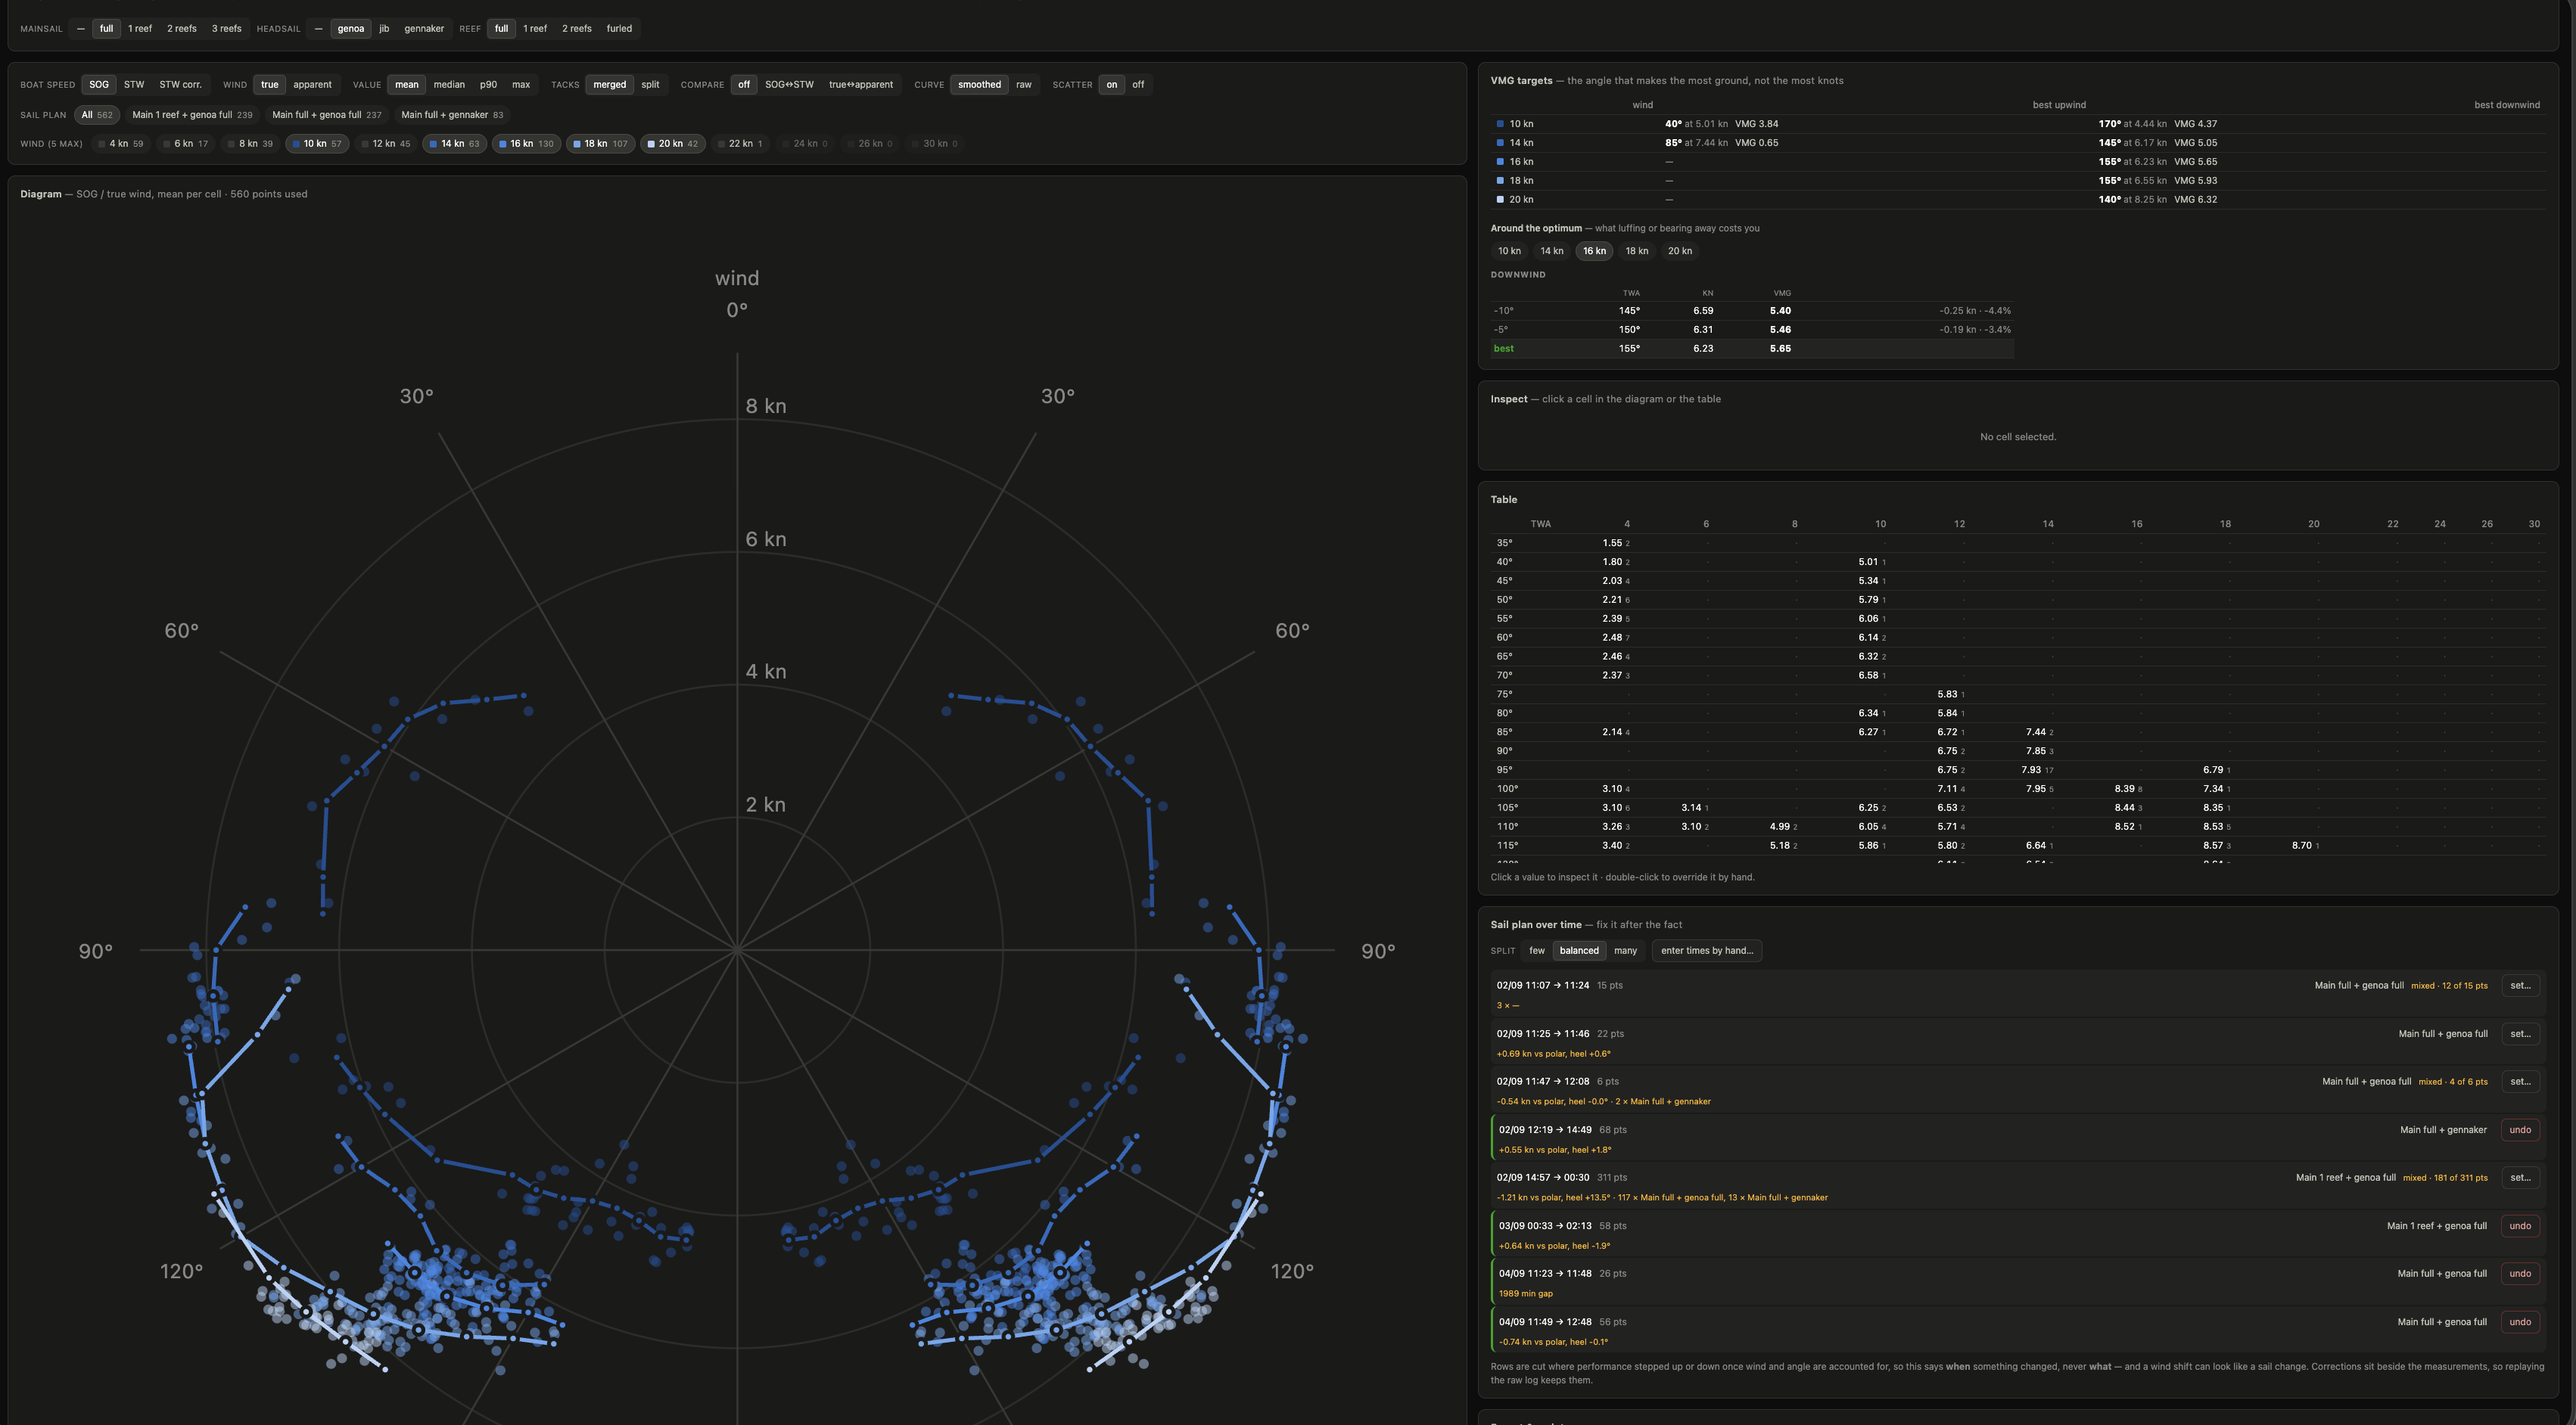
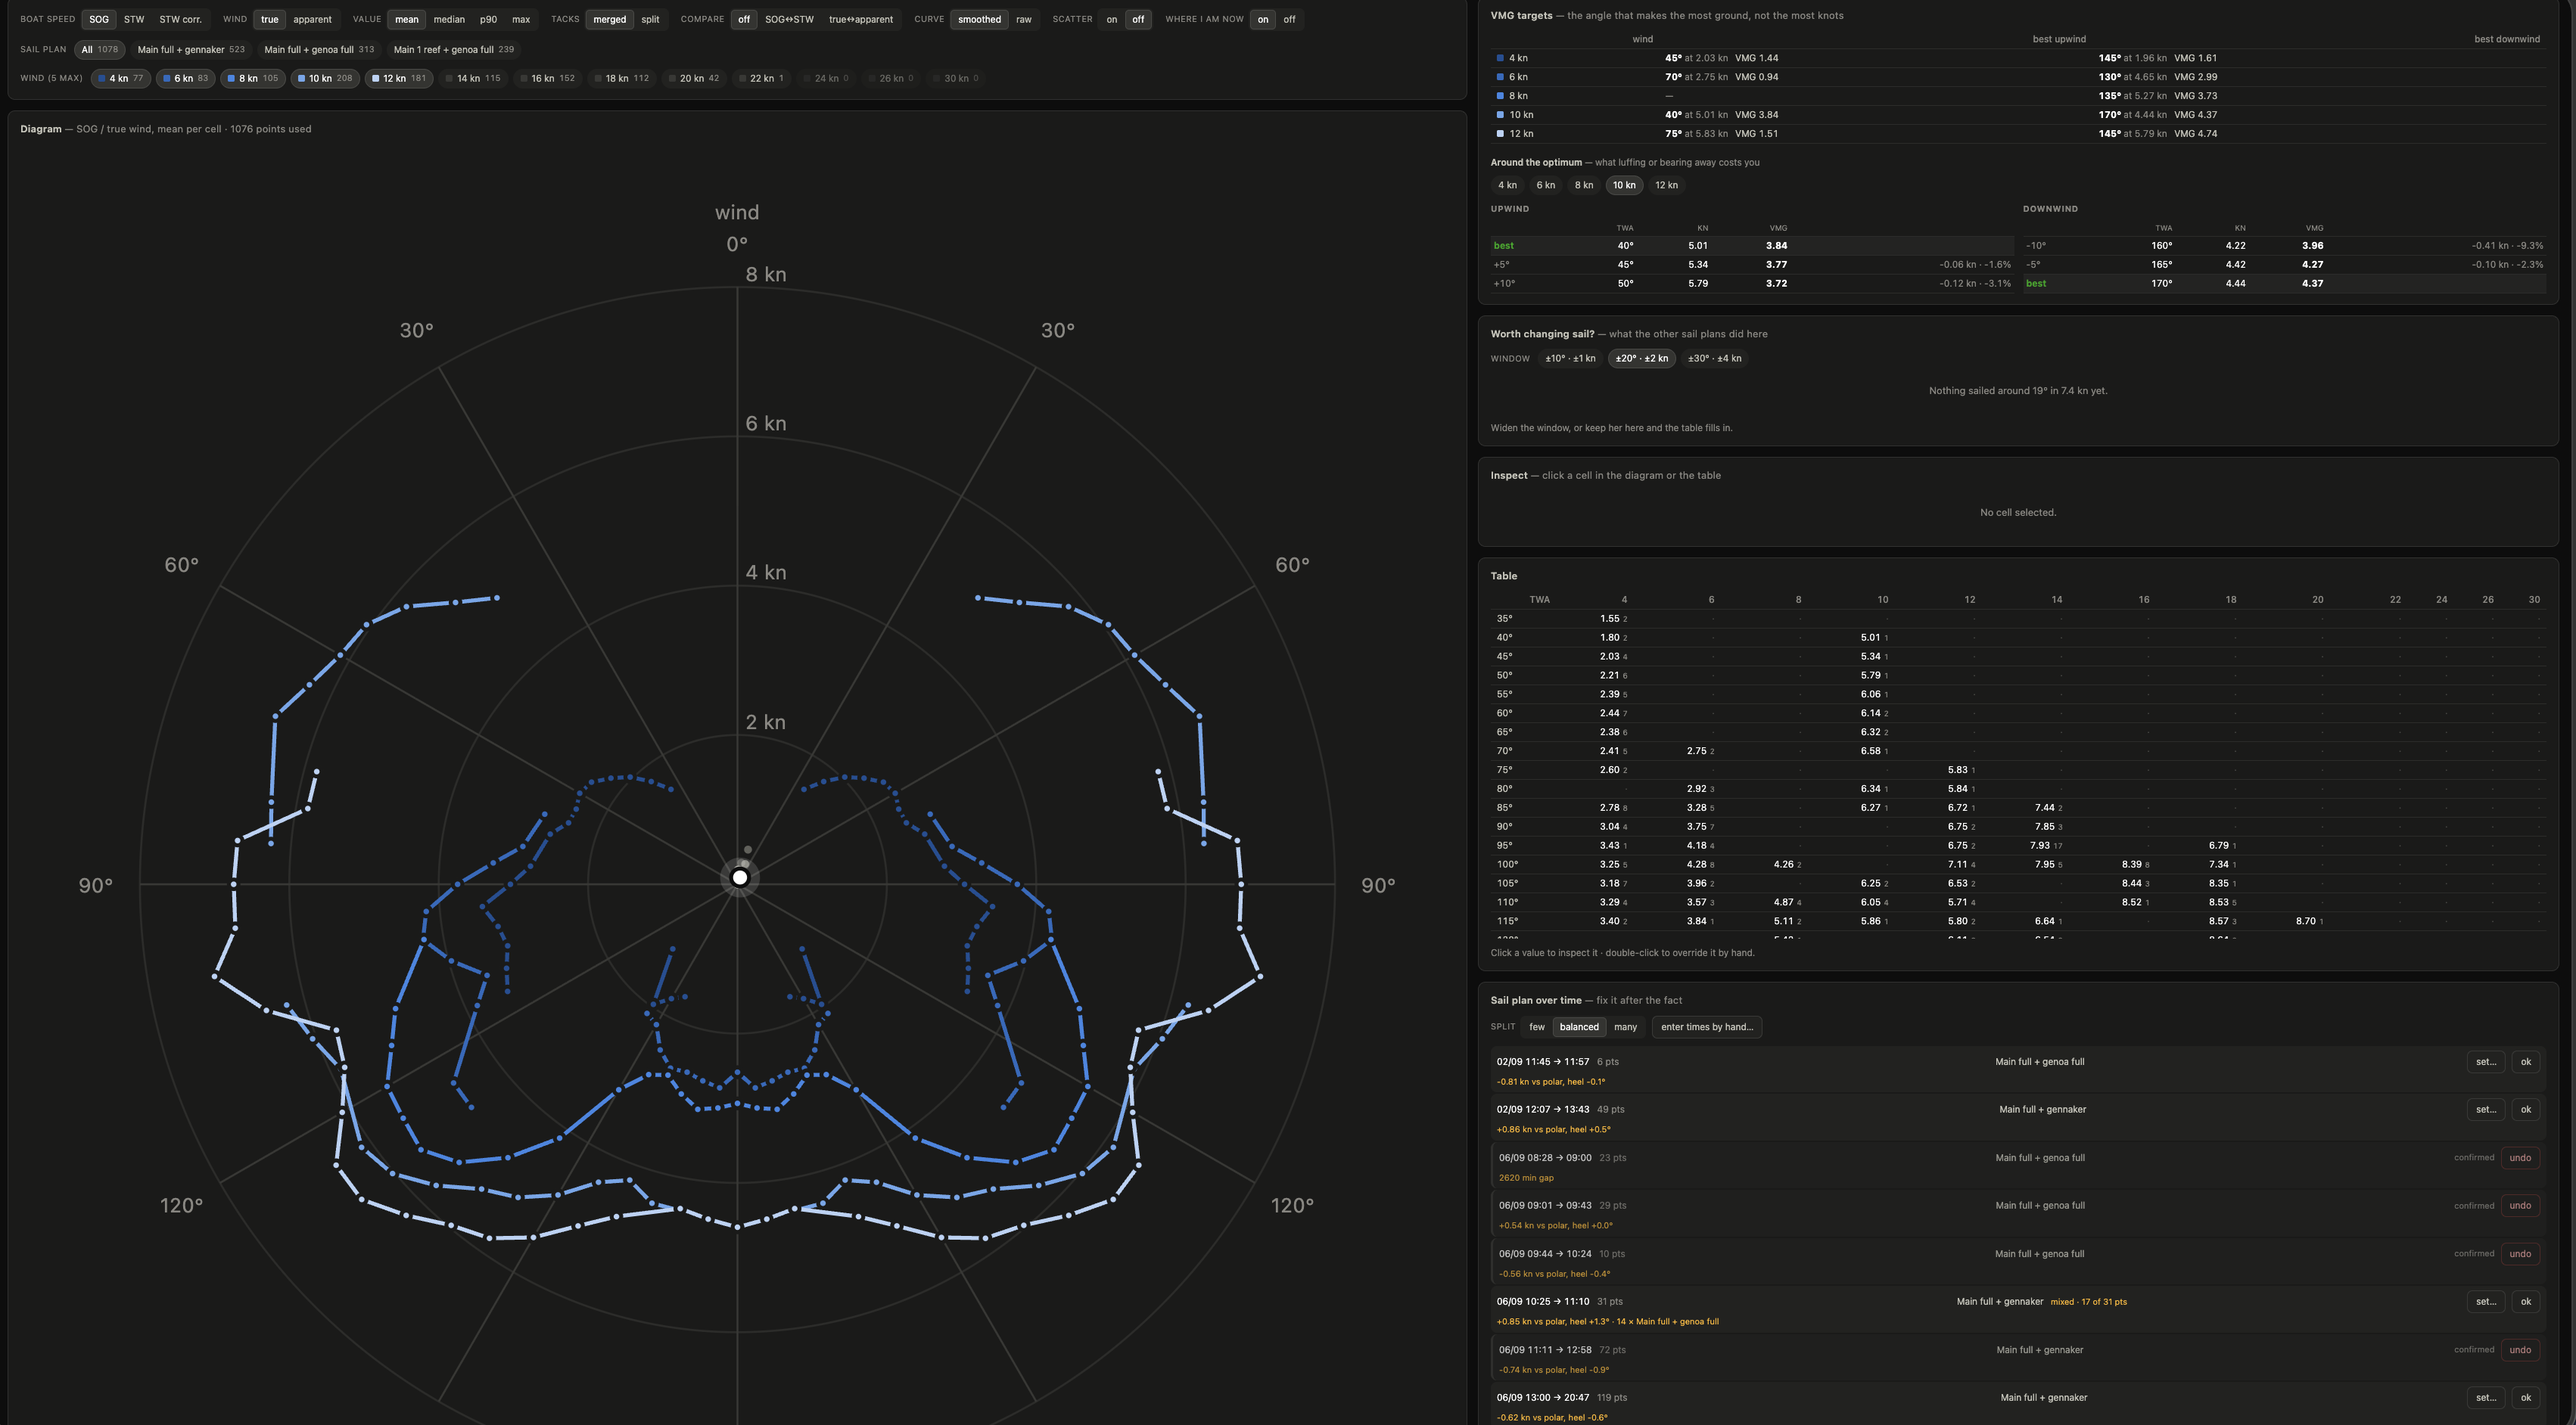
Modif readme

diff --git a/README.md b/README.md
@@ -285,6 +285,8 @@ you hold the angle. The two cases look alike on a polar diagram, so the plugin
 tabulates the neighbouring angles either side of the optimum (±5° and ±10° by
 default) with the VMG loss in knots and in percent.
 
+![VMG](docs/vmg.png)
+
 ## Where you are right now
 
 The rest of the app looks backwards: what the boat has already done. This part
